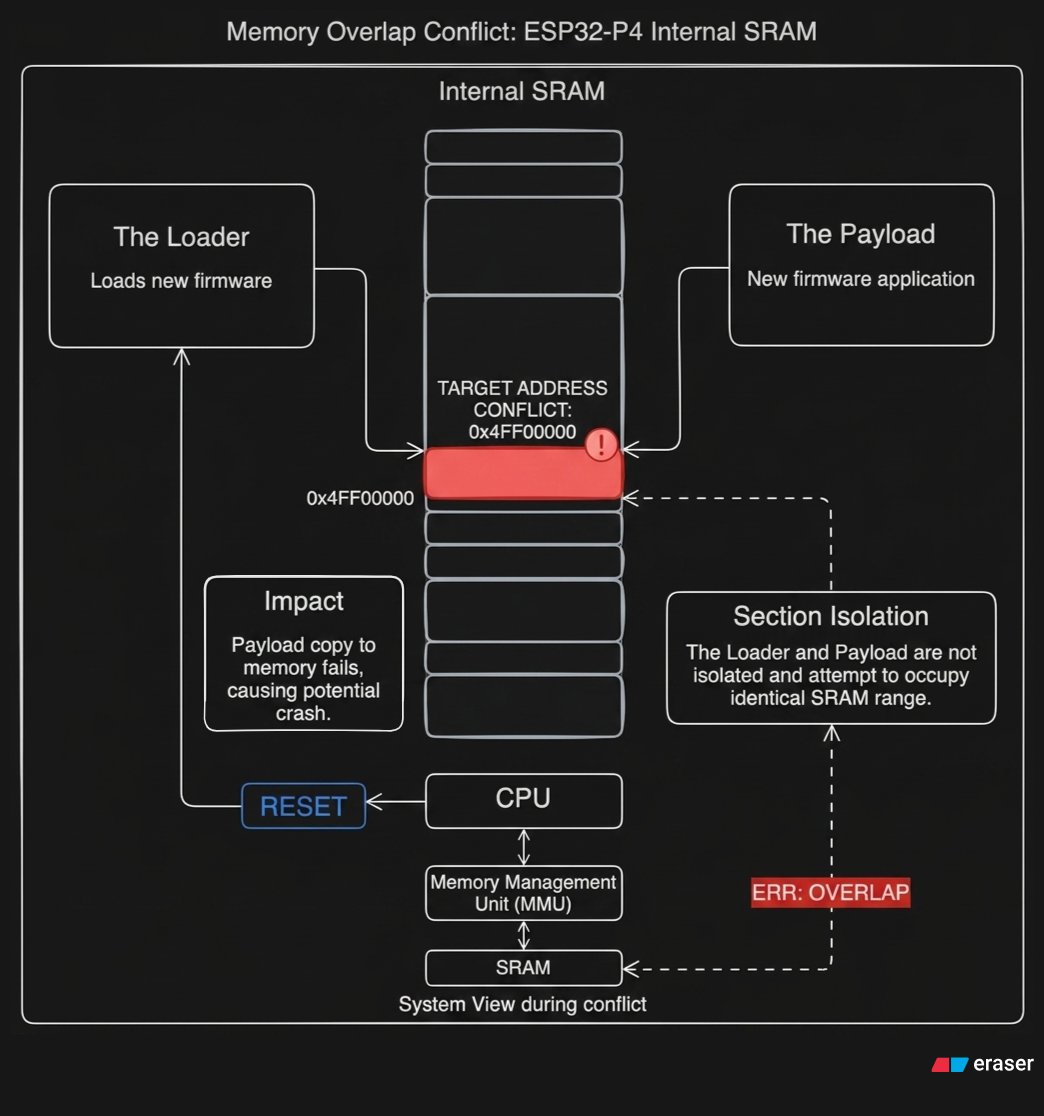
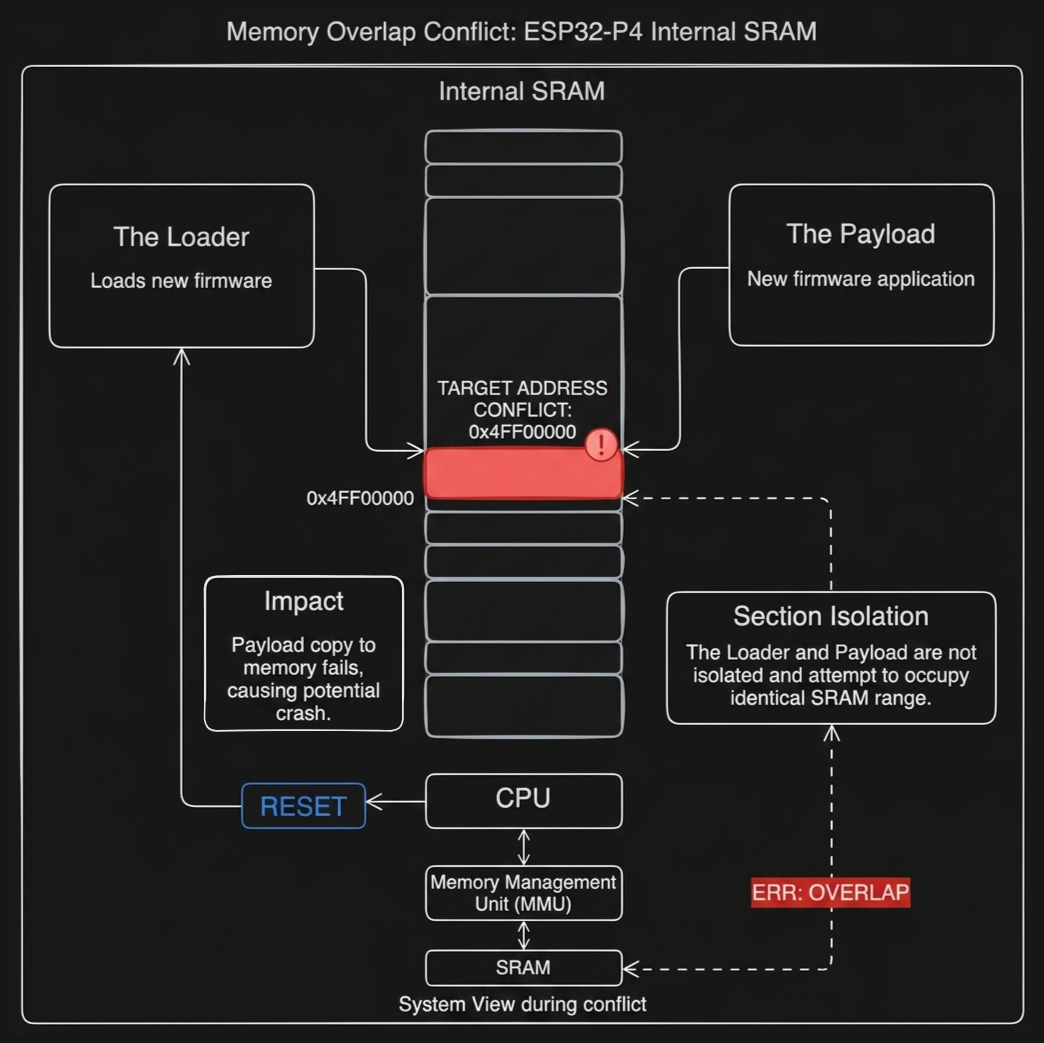
docs: Replace demo video links in README with public links

diff --git a/README.md b/README.md
@@ -26,11 +26,11 @@ Both private keys are gitignored and must be generated locally, never commit the
 
 ### ESP32-P4
 
-<video src="https://github.com/user-attachments/assets/c80e6a40-e6c3-45e0-b2f2-39b7ead0d9e8" controls width="100%"></video>
+<video src="https://github.com/user-attachments/assets/9826a537-8af3-4570-89bd-2bad9e608e5e" controls width="100%"></video>
 
 ### ESP32-S3
 
-<video src="https://github.com/user-attachments/assets/99f05199-7fac-498a-a753-a47c07af15bc" controls width="100%"></video>
+<video src="https://github.com/user-attachments/assets/0011ab24-60c6-4ac4-83d1-0760f266ac68" controls width="100%"></video>
 
 ## Supported Targets
 
